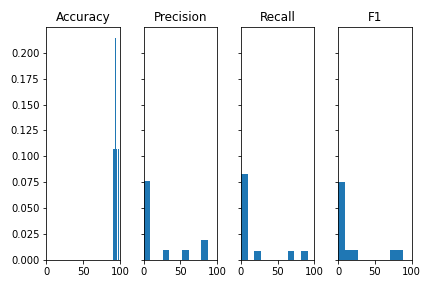
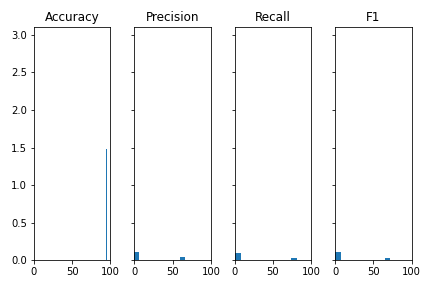
playing with nn trainer

diff --git a/trainer/nn_trainer.py b/trainer/nn_trainer.py
@@ -19,7 +19,11 @@ X = np.concatenate((np.load('atomic_v3_1.npy', allow_pickle=True),
                     # np.load('atomic_v3_7.npy', allow_pickle=True), 
                     np.load('atomic_v3_8.npy', allow_pickle=True), 
                     np.load('atomic_v3_9.npy', allow_pickle=True),
-                    np.load('atomic_v3_10.npy', allow_pickle=True)))
+                    np.load('atomic_v3_10.npy', allow_pickle=True),
+                    np.load('atomic_v3_11.npy', allow_pickle=True),
+                    np.load('atomic_v3_12.npy', allow_pickle=True),
+                    np.load('atomic_v3_13.npy', allow_pickle=True),
+                    np.load('atomic_v3_14.npy', allow_pickle=True)))
 
 steamer = []
 for i in X:
@@ -36,35 +40,41 @@ y = []
 for inst in X:
     atomic_inst = inst[1]
     atomic_inst = np.delete(atomic_inst, np.arange(1, atomic_inst.size, 35))
-    # low_tick = list(filter(lambda x: atomic_inst[x] < 30, np.arange(0, atomic_inst.size, 34)))
-    # low_tick_index = []
-    # for i in low_tick:
-    #     low_tick_index += list(range(i, i + 34))
-    # atomic_inst = np.delete(atomic_inst, low_tick_index)
+    if (atomic_inst.size == 0):
+                continue
+    atomic_inst = np.delete(atomic_inst, np.arange(1, atomic_inst.size, 35))
+    atomic_arr = []
+    atomic_arr.append(np.mean(atomic_inst[np.arange(0, atomic_inst.size, 34)]))
+    for i in range(1,33):
+        if (i%4 == 1):
+            atomic_arr.append(np.min(atomic_inst[np.arange(i, atomic_inst.size, 34)]))
+        elif (i%4 == 2):
+            atomic_arr.append(np.max(atomic_inst[np.arange(i, atomic_inst.size, 34)]))
+        elif (i%4 == 3):
+            atomic_arr.append(np.mean(atomic_inst[np.arange(i, atomic_inst.size, 34)]))
+        elif (i%4 == 0):
+            atomic_arr.append(np.std(atomic_inst[np.arange(i, atomic_inst.size, 34)]))
+    atomic_arr.append(np.mean(atomic_inst[np.arange(33, atomic_inst.size, 34)]))
+    atomic_arr = np.array(atomic_arr)
+    atomic_arr = np.nan_to_num(atomic_arr, nan=0, posinf=0, neginf=0)
     steam_id = inst[0][0]
     hero_name = inst[0][1]
-    if atomic_inst.size < 1000 or atomic_inst.size > 80000:
-        continue
     # max_tick = atomic_inst.size if atomic_inst.size > max_tick else max_tick
     # min_tick = atomic_inst.size if atomic_inst.size < min_tick else min_tick
 
-    if steamer[str(steam_id) + hero_name] >= 10:
-        # if (str(steam_id) + hero_name == "76561198162034645CDOTA_Unit_Hero_Dawnbreaker"):
-        y.append(steam_id)
-            # y.append(1)
+    if steamer[str(steam_id) + hero_name] >= 15:
+        if (str(steam_id) + hero_name == "76561198162034645CDOTA_Unit_Hero_Dawnbreaker"):
+        # y.append(steam_id)
+            y.append(1)
         # elif (str(steam_id) + hero_name == "76561198135593836CDOTA_Unit_Hero_Meepo"):
-        # else:
-            # y.append(0)
+        else:
+            y.append(0)
     else:
             # y.append(0)
         continue
     new_X.append(atomic_inst)
 
-med_tick = 20000
-# new_X_padded  = list(map(lambda x: np.resize(x, min_tick), new_X))
-# new_X_padded  = list(map(lambda x: np.pad(x, (0, max_tick - x.size), 'constant'), new_X))
-new_X_padded  = list(map(lambda x: list(np.resize(x, med_tick)) if np.size(x) >= med_tick else list(np.pad(x, (0, med_tick - x.size), 'constant')), new_X))
-# X_train, X_test, y_train, y_test = train_test_split(new_X_padded, y, test_size=0.25, random_state=42)
+# X_train, X_test, y_train, y_test = train_test_split(new_X, y, test_size=0.25, random_state=42)
 
 # In[]: Keras part 
 from keras.models import Sequential
@@ -77,20 +87,20 @@ ev_precision = []
 ev_recall = []
 ev_f1 = []
 skf = StratifiedKFold(n_splits=5, shuffle=False)
-for (train_index, test_index) in  skf.split(new_X_padded, y):
+for (train_index, test_index) in  skf.split(new_X, y):
 
-    X_train, X_test = np.array(new_X_padded)[train_index.astype(int)], np.array(new_X_padded)[test_index.astype(int)]
+    X_train, X_test = np.array(new_X)[train_index.astype(int)], np.array(new_X)[test_index.astype(int)]
     y_train, y_test = np.array(y)[train_index.astype(int)], np.array(y)[test_index.astype(int)]
 
     model = Sequential()
-    model.add(Dense(50, input_dim=20000, activation='relu'))
+    model.add(Dense(50, input_dim=34, activation='relu'))
     model.add(Dense(50, activation='relu'))
     # model.add(Dense(1, activation='sigmoid'))
-    model.add(Dense(36, activation='sigmoid'))
+    model.add(Dense(1, activation='sigmoid'))
     # compile the keras model
-    model.compile(loss='binary_crossentropy', optimizer='adam', metrics=['accuracy'])
+    model.compile(loss='binary_crossentropy', optimizer='adam', metrics=['accuracy', keras.metrics.Precision(), keras.metrics.Recall()])
     # fit the keras model on the dataset
-    model.fit(X_train, y_train, epochs=50)
+    model.fit(X_train, y_train, epochs=50, validation_data=(X_test, y_test), batch_size=20)
     # evaluate the keras model
     # _, accuracy = model.evaluate(X_test, y_test)
     results = model.evaluate(X_test, y_test, batch_size=40)
@@ -99,9 +109,9 @@ for (train_index, test_index) in  skf.split(new_X_padded, y):
     # ev_recall.append(results[3])
     # ev_f1.append(2 * results[2] * results[3] / (results[2] + results[3]))
 
-    print('----------------------The cross validated accuracy score for Logistic Regression is:',round(sum(ev_accuracy) / len(ev_accuracy)*100,2))
-    # print('----------------------The cross validated precision score for Logistic Regression is:',round(sum(ev_precision) / len(ev_precision)*100,2))
-    # print('----------------------The cross validated recall score for Logistic Regression is:',round(sum(ev_recall) / len(ev_recall)*100,2))
-    # print('----------------------The cross validated f1 score for Logistic Regression is:',round(sum(ev_f1) / len(ev_f1)*100,2))
+    print('----------------------The cross validated accuracy score for Logistic Regression is:',round(results[1]*100,2))
+    print('----------------------The cross validated precision score for Logistic Regression is:',round(results[2]*100,2))
+    print('----------------------The cross validated recall score for Logistic Regression is:',round(results[3]*100,2))
+    print('----------------------The cross validated f1 score for Logistic Regression is:',round(2 * results[2] * results[3] / (results[2] + results[3])*100,2))
 
 # %%

diff --git a/trainer/trainer_nn.py b/trainer/trainer_nn.py
@@ -12,8 +12,11 @@ from sklearn.model_selection import cross_validate #score evaluation
 from keras.models import Sequential
 from keras.layers import Dense
 from keras.layers import Dropout
+from keras.layers import Activation
 from keras.constraints import maxnorm
 import keras
+from keras.layers.normalization import BatchNormalization
+
 
 # In[]: Multiclassify labeler
 X = np.concatenate((np.load('atomic_v3_1.npy', allow_pickle=True), 
@@ -25,7 +28,11 @@ X = np.concatenate((np.load('atomic_v3_1.npy', allow_pickle=True),
                     # np.load('atomic_v3_7.npy', allow_pickle=True), 
                     np.load('atomic_v3_8.npy', allow_pickle=True), 
                     np.load('atomic_v3_9.npy', allow_pickle=True),
-                    np.load('atomic_v3_10.npy', allow_pickle=True)))
+                    np.load('atomic_v3_10.npy', allow_pickle=True),
+                    np.load('atomic_v3_11.npy', allow_pickle=True),
+                    np.load('atomic_v3_12.npy', allow_pickle=True),
+                    np.load('atomic_v3_13.npy', allow_pickle=True),
+                    np.load('atomic_v3_14.npy', allow_pickle=True)))
 
 steamer = []
 for i in X:
@@ -41,7 +48,10 @@ result_dict["f1"] = []
 counter = 1
 
 for player in steamer.index:
-    if steamer[player] >= 40:
+    if steamer[player] >= 70:
+        if player == "76561198135593836CDOTA_Unit_Hero_Meepo":
+            continue
+        print("Yo!")
         new_X = []
         max_tick = 0
         min_tick = np.inf
@@ -79,10 +89,12 @@ for player in steamer.index:
             y_train, y_test = np.array(y)[train_index.astype(int)], np.array(y)[test_index.astype(int)]
 
             model = Sequential()
-            model.add(Dense(50, input_dim=34, activation='relu', kernel_constraint=maxnorm(3)))
-            model.add(Dropout(0.25))
-            model.add(Dense(50, activation='relu', kernel_constraint=maxnorm(3)))
-            model.add(Dropout(0.25))
+            # model.add(Dense(50, input_dim=34, activation='relu', kernel_constraint=maxnorm(3)))
+            model.add(Dense(50, input_dim=34, activation='relu'))
+            # model.add(Dense(100, activation='relu', kernel_constraint=maxnorm(3)))
+            # model.add(Dense(100, activation='relu', kernel_constraint=maxnorm(3)))
+            # model.add(Dense(100, activation='relu'))
+            # model.add(Dense(100, activation='relu', kernel_constraint=maxnorm(3)))
             model.add(Dense(1, activation='sigmoid'))
             # compile the keras model
             model.compile(loss='binary_crossentropy', optimizer='adam', metrics=['accuracy', keras.metrics.Precision(), keras.metrics.Recall()])
@@ -106,7 +118,6 @@ for player in steamer.index:
         print("batch " + str(counter))
         counter += 1
 
-# %%
 import matplotlib.pyplot as plt
 
 fig, axs = plt.subplots(1, 4, sharey=True, tight_layout=True)
@@ -124,5 +135,6 @@ axs[3].hist(result_dict["f1"], density=True)
 axs[3].set_title('F1')
 axs[3].axis(xmin=0,xmax=100)
 plt.savefig('nn_histo_5.png')
+
 
 # %%

diff --git a/trainer/trainer_dt.py b/trainer/trainer_dt.py
@@ -72,8 +72,6 @@ for player in steamer.index:
             
             steam_id = inst[0][0]
             hero_name = inst[0][1]
-            if atomic_inst.size < 1000 or atomic_inst.size > 80000:
-                continue
             if steamer[str(steam_id) + hero_name] >= 15:
                 if (str(steam_id) + hero_name == player):
                     y.append(1)
